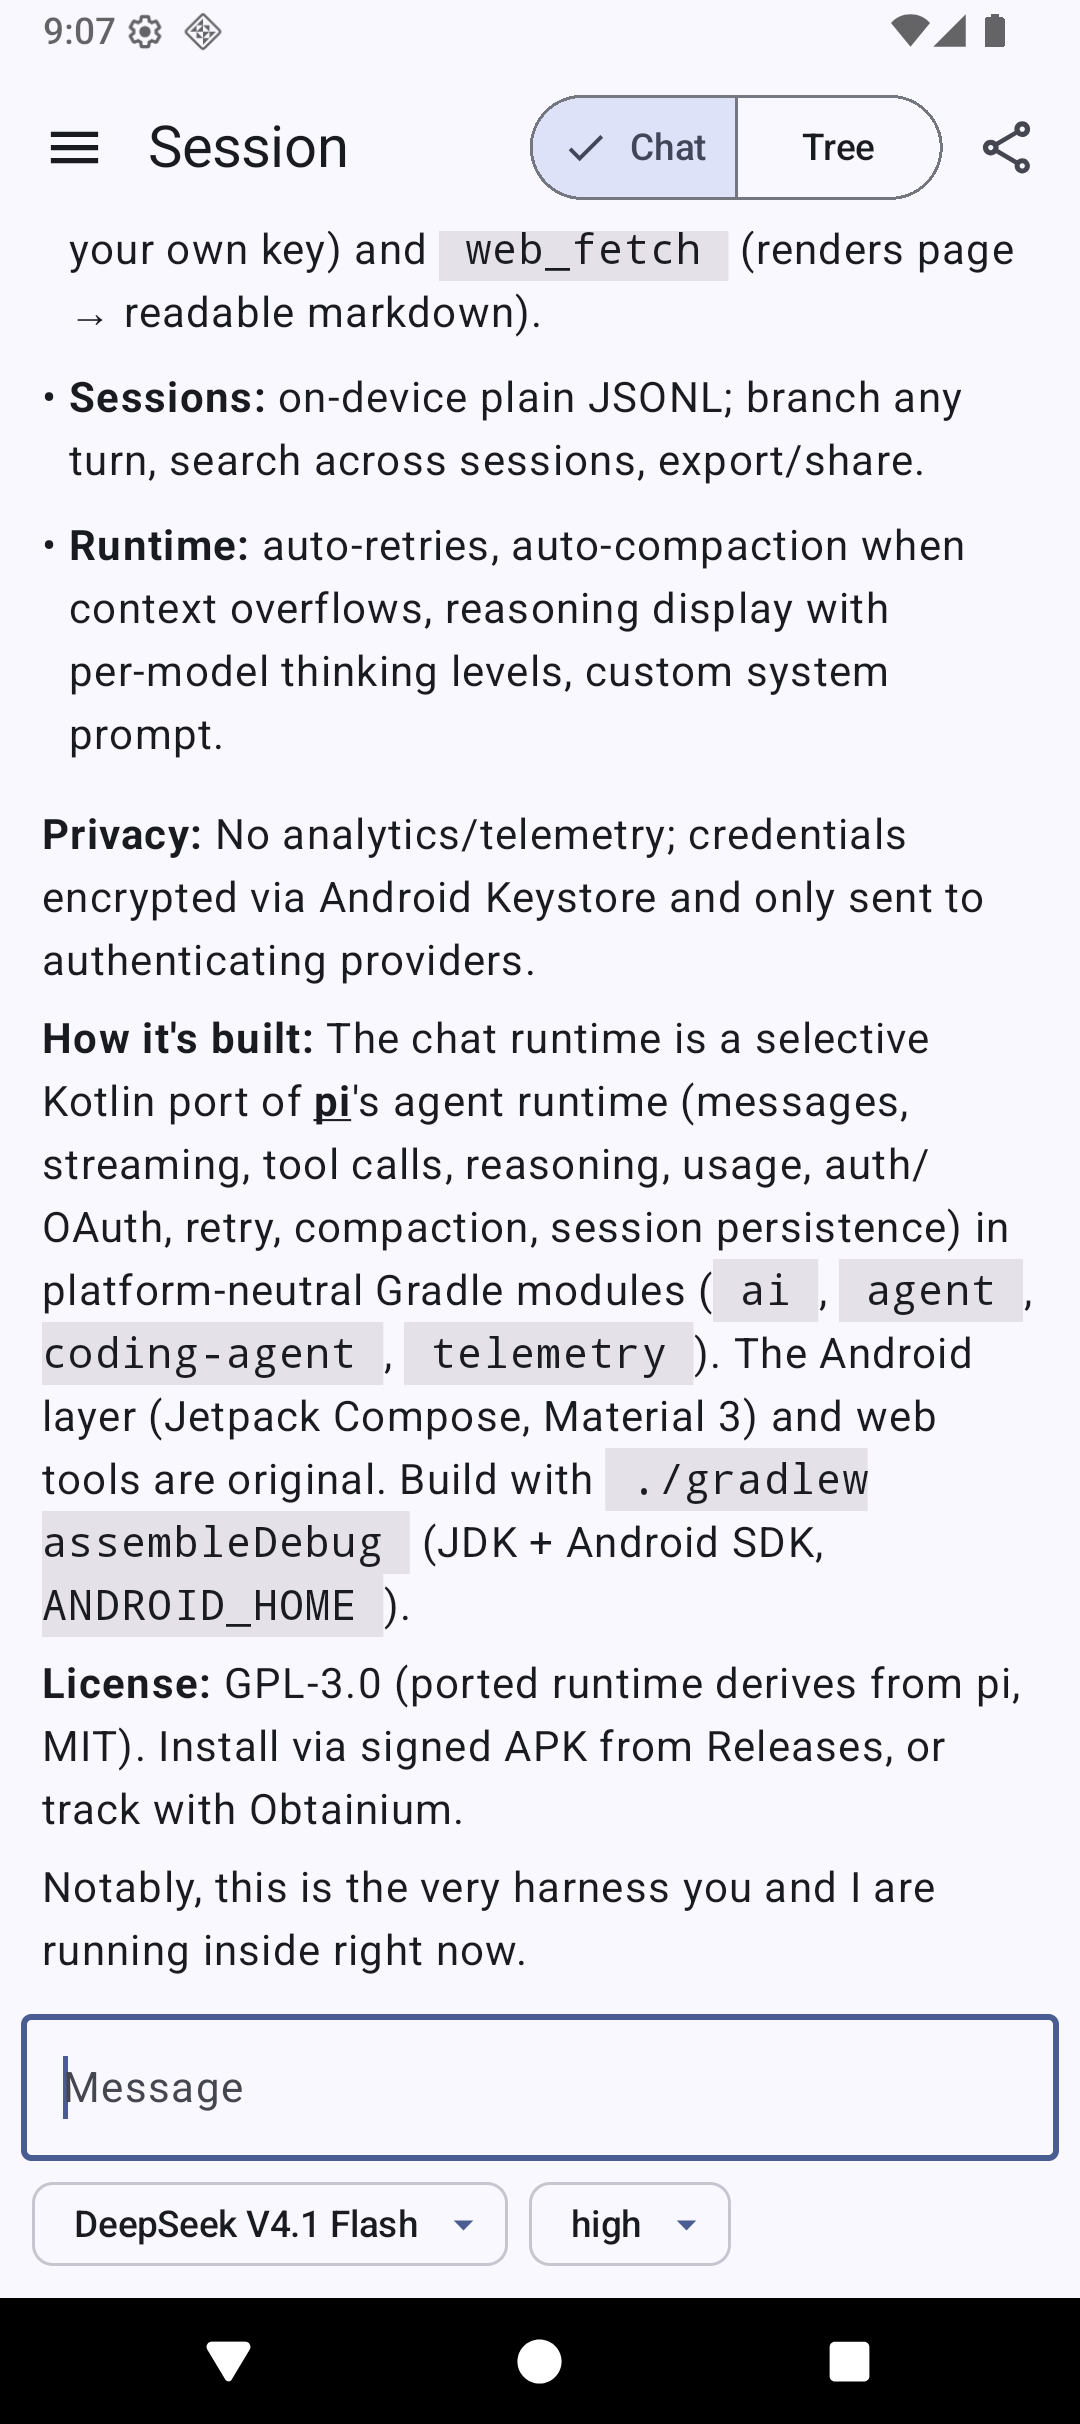
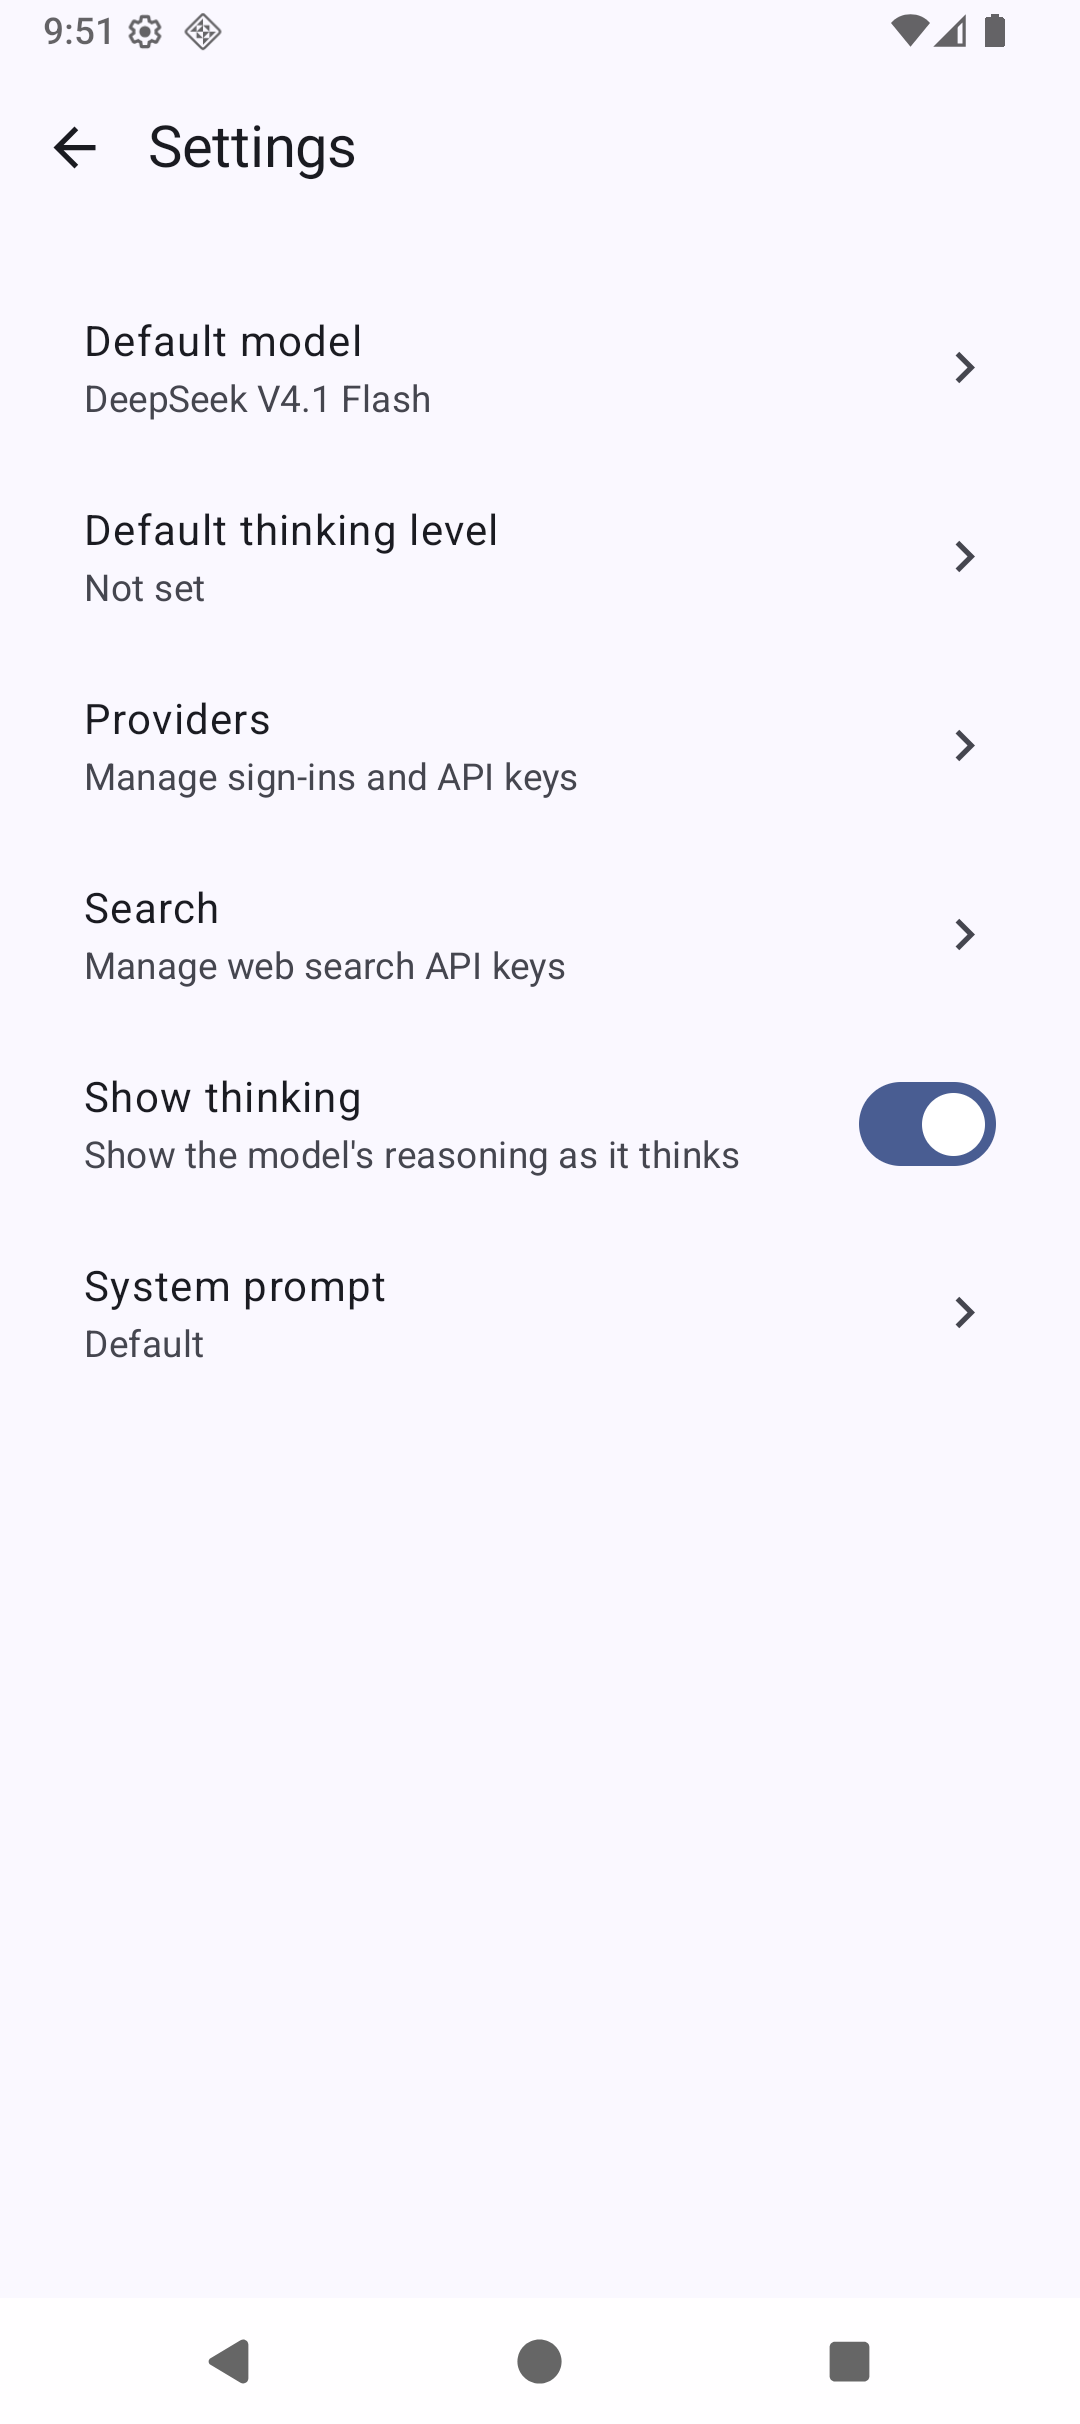
Replace first two screenshots with settings and providers pages

diff --git a/src/routes/+page.svelte b/src/routes/+page.svelte
@@ -63,7 +63,7 @@
 			<figure>
 				<img
 					src="/screenshots/01.png"
-					alt="The agent fetches the GitHub repository it was asked about and shows its reasoning."
+					alt="The settings screen: default model and thinking level, providers, web search keys, reasoning display, and system prompt."
 					width="1080"
 					height="2424"
 				/>
@@ -71,7 +71,7 @@
 			<figure>
 				<img
 					src="/screenshots/02.png"
-					alt="Collapsed tool output in the transcript, with the answer taking shape."
+					alt="The providers screen: an alphabetical list of providers from Ant Ling to GitHub Copilot, DeepSeek marked configured."
 					width="1080"
 					height="2424"
 				/>
@@ -86,7 +86,7 @@
 			</figure>
 		</section>
 		<p class="caption">
-			Asked “What’s this: github.com/resolveworks/pathfinder”. It fetches the page, notices it is
+			Right: asked “What’s this: github.com/resolveworks/pathfinder”. It fetches the page, notices it is
 			running inside the very harness it is describing, and answers concisely.
 		</p>
 
